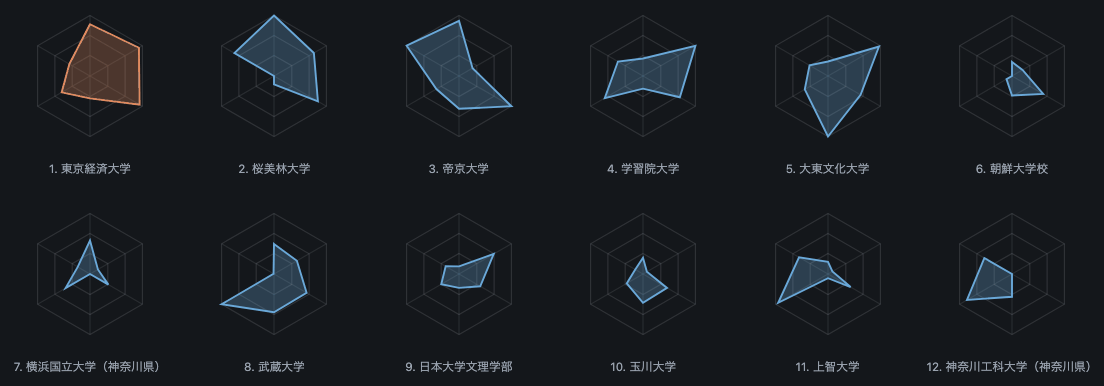
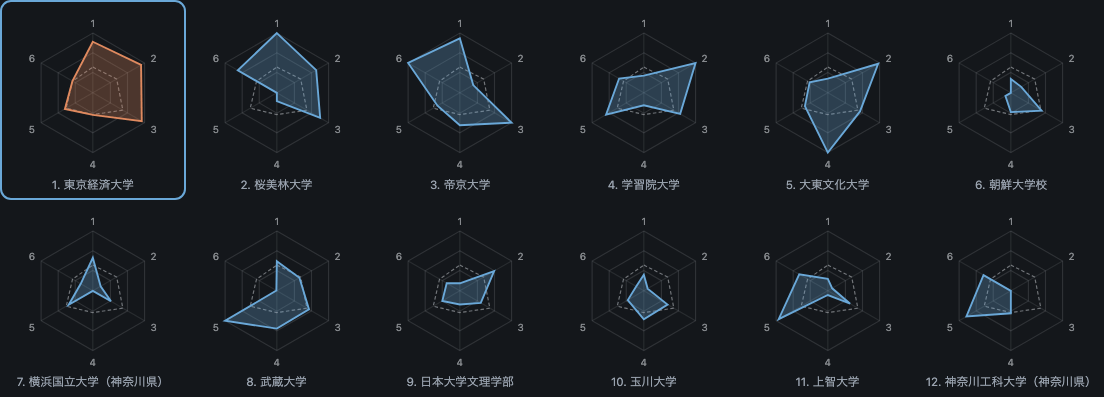
feat: number the fingerprint axes and draw the league mean
The small radars carried no axis labels, so a shape could not be read
without guessing which vertex was which. Each vertex now shows its index
number and the list under the grid is numbered to match; the labelled
radar gets a wider box so its six Japanese labels stop being clipped at
the viewBox edge.

Every radar also draws the league mean as a dashed outline, so a club
reads as a deviation from the field. Each axis is min-max scaled inside
the series, so that mean is not 50, and the list prints it per index.

fig-fingerprints.png re-shot and the season documents regenerated.

diff --git a/togakuren/dashboard.py b/togakuren/dashboard.py
@@ -49,7 +49,7 @@ svg { display:block; max-width:100%; height:auto; }
 #bubbles svg, #curve svg, #opponents svg, #grades svg,
 #goals-line svg, #shots-line svg, #conv-line svg, #trajectory svg, #moves svg
   { width:100%; max-width:640px; }
-#radar-big svg { width:100%; max-width:320px; }
+#radar-big svg { width:100%; max-width:440px; }
 .grid { display:grid; gap:1.4rem; grid-template-columns:repeat(auto-fit,minmax(290px,1fr)); }
 .cards { display:grid; gap:.7rem; grid-template-columns:repeat(auto-fit,minmax(118px,1fr)); margin:.8rem 0; }
 .card { background:var(--panel); border:1px solid var(--line); border-radius:6px; padding:.6rem .7rem; }
@@ -59,6 +59,8 @@ svg { display:block; max-width:100%; height:auto; }
 .radars figure { margin:0; text-align:center; }
 .radars figcaption { font-size:.73rem; color:var(--muted); margin-top:-.3rem; }
 .radars figure.on { outline:2px solid var(--accent); outline-offset:3px; border-radius:6px; }
+.axis-key { columns:2; column-gap:1.6rem; padding-left:1.4rem; margin:.5rem 0 0; }
+.axis-key li { margin:.1rem 0; break-inside:avoid; }
 .heat td { padding:0; border:none; }
 .heat .cell { width:19px; height:17px; border-radius:2px; }
 .heat th { font-size:.68rem; padding:.2rem .25rem; }
@@ -133,39 +135,52 @@ function bubbles(host, teams, selected) {
 }
 
 function radar(team, size, selected) {
-  const c = size / 2, radius = size * 0.34;
-  const node = svg(size, size, `${team.team} の個性`);
-  const points = AXES.map((axis, i) => {
-    const angle = -Math.PI / 2 + i * 2 * Math.PI / AXES.length;
-    const value = team.axes[axis.key] / 100;
-    return [c + radius * value * Math.cos(angle), c + radius * value * Math.sin(angle),
-            c + radius * Math.cos(angle), c + radius * Math.sin(angle), axis];
-  });
+  /* The labelled version needs room outside the circle for six Japanese
+     names, so it gets a wider box with the circle still centred in it. */
+  const big = size > 200;
+  const W = big ? Math.round(size * 1.45) : size;
+  const c = W / 2, cy = size / 2, radius = size * 0.34;
+  const node = svg(W, size, `${team.team} の個性`);
+  const angleOf = i => -Math.PI / 2 + i * 2 * Math.PI / AXES.length;
+  const ringPoints = ring => AXES.map((_, i) => {
+    const angle = angleOf(i);
+    return `${c + radius * ring * Math.cos(angle)},${cy + radius * ring * Math.sin(angle)}`;
+  }).join(" ");
+  const shape = values => AXES.map((axis, i) => {
+    const angle = angleOf(i), value = (values[axis.key] || 0) / 100;
+    return `${c + radius * value * Math.cos(angle)},${cy + radius * value * Math.sin(angle)}`;
+  }).join(" ");
   for (const ring of [.34, .67, 1]) {
-    node.appendChild(el("polygon", {
-      points: AXES.map((_, i) => {
-        const angle = -Math.PI / 2 + i * 2 * Math.PI / AXES.length;
-        return `${c + radius * ring * Math.cos(angle)},${c + radius * ring * Math.sin(angle)}`;
-      }).join(" "),
+    node.appendChild(el("polygon", { points: ringPoints(ring),
       fill: "none", stroke: "currentColor", "stroke-opacity": .13 }));
   }
-  for (const p of points) {
-    node.appendChild(el("line", { x1: c, y1: c, x2: p[2], y2: p[3],
+  AXES.forEach((_, i) => {
+    const angle = angleOf(i);
+    node.appendChild(el("line", { x1: c, y1: cy,
+      x2: c + radius * Math.cos(angle), y2: cy + radius * Math.sin(angle),
       stroke: "currentColor", "stroke-opacity": .1 }));
-  }
+  });
+  /* The league mean sits under every club, so a shape reads as a deviation
+     from the field rather than as an absolute score. */
+  node.appendChild(el("polygon", { points: shape(DATA.axis_means),
+    fill: "none", stroke: "currentColor", "stroke-opacity": .45,
+    "stroke-width": 1, "stroke-dasharray": "3 2" }));
   const on = team.team_pk === selected;
-  node.appendChild(el("polygon", { points: points.map(p => `${p[0]},${p[1]}`).join(" "),
+  node.appendChild(el("polygon", { points: shape(team.axes),
     fill: on ? "var(--warm)" : "var(--accent)", "fill-opacity": .28,
     stroke: on ? "var(--warm)" : "var(--accent)", "stroke-width": 1.6 }));
-  if (size > 200) {
-    points.forEach((p, i) => {
-      const angle = -Math.PI / 2 + i * 2 * Math.PI / AXES.length;
-      node.appendChild(el("text", {
-        x: c + (radius + 16) * Math.cos(angle), y: c + (radius + 16) * Math.sin(angle) + 4,
-        "font-size": 10.5, "text-anchor": "middle", fill: "currentColor", "fill-opacity": .7,
-      }, `${AXES[i].label} ${Math.round(team.axes[AXES[i].key])}`));
-    });
-  }
+  /* Numbers, not names: the small charts have no room for six Japanese
+     labels, and the number keys back to the list under the grid. */
+  AXES.forEach((axis, i) => {
+    const angle = angleOf(i), gap = big ? 10 : 9;
+    const dx = Math.cos(angle), anchor = big && Math.abs(dx) > .3
+      ? (dx > 0 ? "start" : "end") : "middle";
+    node.appendChild(el("text", {
+      x: c + (radius + gap) * dx, y: cy + (radius + gap) * Math.sin(angle) + 4,
+      "font-size": big ? 10.5 : 8.5, "text-anchor": anchor,
+      fill: "currentColor", "fill-opacity": big ? .7 : .55,
+    }, big ? `${i + 1}. ${axis.label} ${Math.round(team.axes[axis.key])}` : `${i + 1}`));
+  });
   return node;
 }
 
@@ -402,6 +417,12 @@ def build(conn, series_id, mode="full", salt=None, min_minutes=0):
     if not profile:
         raise ValueError(f"series {series_id!r} has no completed fixtures")
     prints = {row["team_pk"]: row["axes"] for row in analysis.fingerprints(conn, series_id, profile)}
+    # Each axis is min-max scaled within the series, so the mean is not 50: it
+    # says whether the field is bunched near the top or dragged down by a tail.
+    axis_means = {
+        key: round(sum(axes.get(key, 0.0) for axes in prints.values()) / len(prints), 1)
+        for key, _, _ in analysis.FINGERPRINT_AXES
+    } if prints else {key: 0.0 for key, _, _ in analysis.FINGERPRINT_AXES}
     names = dict(conn.execute("SELECT player_id, name FROM players"))
     per_player = metrics.player_season(conn, series_id, min_minutes=min_minutes, order_by="minutes")
     grades = {
@@ -480,6 +501,7 @@ def build(conn, series_id, mode="full", salt=None, min_minutes=0):
              "hint": analysis.FINGERPRINT_AXES_JA[key][1]}
             for key, _, _ in analysis.FINGERPRINT_AXES
         ],
+        "axis_means": axis_means,
         "teams": teams,
         "curve": analysis.points_curve(conn, series_id),
         "opponents": analysis.goals_by_opponent(conn, series_id, profile),
@@ -512,7 +534,8 @@ def build(conn, series_id, mode="full", salt=None, min_minutes=0):
     )
     axis_list = "".join(
         f"<li><b>{_e(analysis.FINGERPRINT_AXES_JA[key][0])}</b> — "
-        f"{_e(analysis.FINGERPRINT_AXES_JA[key][1])}</li>"
+        f"{_e(analysis.FINGERPRINT_AXES_JA[key][1])}"
+        f"（リーグ平均 {axis_means[key]:.0f}）</li>"
         for key, _, _ in analysis.FINGERPRINT_AXES
     )
     player_sections = (
@@ -559,8 +582,10 @@ def build(conn, series_id, mode="full", salt=None, min_minutes=0):
 
 <h3>チームの個性（6指標）</h3>
 <div class="radars" id="radars"></div>
-<p class="note">各指標はこのリーグ内での相対値（0〜100）。クリックでそのチームに切り替わる。</p>
-<ul class="note">{axis_list}</ul>
+<p class="note">各指標はこのリーグ内での相対値（0〜100）。頂点の番号は下のリストの番号に対応する。
+点線はリーグ平均で、平均が50から離れている指標は、上位に偏っているか下位に長い尾を引いている。
+クリックでそのチームに切り替わる。</p>
+<ol class="note axis-key">{axis_list}</ol>
 
 <h2 id="team-name"></h2>
 <div class="grid">

diff --git a/togakuren/markdown.py b/togakuren/markdown.py
@@ -29,8 +29,10 @@ LABELS = {
         "table": "League table",
         "fingerprints": "Fingerprints",
         "fingerprint_note": (
-            "Six indices, each scaled within this division. The chart is the same one the "
-            "dashboard draws; the numbers under each club repeat it in text."
+            "Six indices, each scaled within this division. The vertices are numbered 1-6 "
+            "clockwise from the top, in the order the indices are listed under each club "
+            "below, and the dashed outline is the division mean. The chart is the same one "
+            "the dashboard draws; the numbers under each club repeat it in text."
         ),
         "axes": "Indices",
         "grades": "By academic year",
@@ -128,8 +130,9 @@ LABELS = {
         "table": "順位表",
         "fingerprints": "チームの個性",
         "fingerprint_note": (
-            "6指標をこの部の中で相対化した値。図はダッシュボードと同じもので、"
-            "各クラブの節に同じ数値を文字でも載せている。"
+            "6指標をこの部の中で相対化した値。頂点の番号1〜6は上から時計回りで、"
+            "各クラブの節に並ぶ指標の順序と同じ。点線はこの部の平均。"
+            "図はダッシュボードと同じもので、各クラブの節に同じ数値を文字でも載せている。"
         ),
         "axes": "指標",
         "grades": "学年別",

diff --git a/FINDINGS.ja.md b/FINDINGS.ja.md
@@ -103,7 +103,9 @@
 
 ![チームの個性](docs/figures/fig-fingerprints.png)
 
-チームごとに6指標を、それぞれそのシーズン内で相対化しています。シュート数、決定率、守備、ターンオーバー（固定の11人から外へ広がった出場時間）、下級生比率（1・2年が占める出場時間の割合）、後半の比重（後半に打ったシュートの割合）。12枚並べると、チームの性格は表から読み取るものではなく、輪郭で見分けるものになります。
+チームごとに6指標を、それぞれそのシーズン内で相対化しています。シュート数、決定率、守備、ターンオーバー（固定の11人から外へ広がった出場時間）、下級生比率（1・2年が占める出場時間の割合）、後半の比重（後半に打ったシュートの割合）。頂点の番号1〜6はこの順で、上から時計回りに並んでいます。12枚並べると、チームの性格は表から読み取るものではなく、輪郭で見分けるものになります。
+
+各図の点線はリーグ平均です。どの指標もシーズン内で相対化しているため、この平均は50になりません。上位に固まっている指標では高く、1チームが長い尾を引いている指標では低くなります。
 
 2026年の各指標の両端は、6つの別々のクラブに散らばっています。
 

diff --git a/docs/seasons/2026-d3.md b/docs/seasons/2026-d3.md
@@ -2,7 +2,7 @@
 
 Every club in the division, from the federation's published match records. Aggregates only — no individual appears in this document; see [../DATA_POLICY.md](../DATA_POLICY.md).
 
-Snapshot of 2026 3部リーグ, generated 2026-08-29. Regenerate with `togakuren profiles --series "2026 3部リーグ"`.
+Snapshot of 2026 3部リーグ, generated 2026-09-03. Regenerate with `togakuren profiles --series "2026 3部リーグ"`.
 
 **Season in progress: 63 of 105 fixtures played.**
 
@@ -30,7 +30,7 @@ Snapshot of 2026 3部リーグ, generated 2026-08-29. Regenerate with `togakuren
 
 ![Fingerprints](../figures/fig-fingerprints.png)
 
-Six indices, each scaled within this division. The chart is the same one the dashboard draws; the numbers under each club repeat it in text.
+Six indices, each scaled within this division. The vertices are numbered 1-6 clockwise from the top, in the order the indices are listed under each club below, and the dashed outline is the division mean. The chart is the same one the dashboard draws; the numbers under each club repeat it in text.
 
 ### 1. 日本大学生物資源科学部
 

diff --git a/docs/seasons/2026-d1.md b/docs/seasons/2026-d1.md
@@ -2,7 +2,7 @@
 
 Every club in the division, from the federation's published match records. Aggregates only — no individual appears in this document; see [../DATA_POLICY.md](../DATA_POLICY.md).
 
-Snapshot of 2026 1部リーグ, generated 2026-08-29. Regenerate with `togakuren profiles --series "2026 1部リーグ"`.
+Snapshot of 2026 1部リーグ, generated 2026-09-03. Regenerate with `togakuren profiles --series "2026 1部リーグ"`.
 
 **Season in progress: 78 of 132 fixtures played.**
 
@@ -27,7 +27,7 @@ Snapshot of 2026 1部リーグ, generated 2026-08-29. Regenerate with `togakuren
 
 ![Fingerprints](../figures/fig-fingerprints.png)
 
-Six indices, each scaled within this division. The chart is the same one the dashboard draws; the numbers under each club repeat it in text.
+Six indices, each scaled within this division. The vertices are numbered 1-6 clockwise from the top, in the order the indices are listed under each club below, and the dashed outline is the division mean. The chart is the same one the dashboard draws; the numbers under each club repeat it in text.
 
 ### 1. 東京経済大学
 

diff --git a/docs/seasons/2026-d3.ja.md b/docs/seasons/2026-d3.ja.md
@@ -2,7 +2,7 @@
 
 連盟が公開している試合記録をもとにした、その部の全チーム。集計値のみで、個人は一切登場しない（[../DATA_POLICY.ja.md](../DATA_POLICY.ja.md)）。
 
-2026 3部リーグ 時点の集計。生成日 2026-08-29。再生成は `togakuren profiles --series "2026 3部リーグ"`。
+2026 3部リーグ 時点の集計。生成日 2026-09-03。再生成は `togakuren profiles --series "2026 3部リーグ"`。
 
 **シーズン進行中: 全105試合中63試合を消化。**
 
@@ -30,7 +30,7 @@
 
 ![チームの個性](../figures/fig-fingerprints.png)
 
-6指標をこの部の中で相対化した値。図はダッシュボードと同じもので、各クラブの節に同じ数値を文字でも載せている。
+6指標をこの部の中で相対化した値。頂点の番号1〜6は上から時計回りで、各クラブの節に並ぶ指標の順序と同じ。点線はこの部の平均。図はダッシュボードと同じもので、各クラブの節に同じ数値を文字でも載せている。
 
 ### 1. 日本大学生物資源科学部
 

diff --git a/docs/seasons/2026-d2.md b/docs/seasons/2026-d2.md
@@ -2,7 +2,7 @@
 
 Every club in the division, from the federation's published match records. Aggregates only — no individual appears in this document; see [../DATA_POLICY.md](../DATA_POLICY.md).
 
-Snapshot of 2026 2部リーグ, generated 2026-08-29. Regenerate with `togakuren profiles --series "2026 2部リーグ"`.
+Snapshot of 2026 2部リーグ, generated 2026-09-03. Regenerate with `togakuren profiles --series "2026 2部リーグ"`.
 
 **Season in progress: 60 of 90 fixtures played.**
 
@@ -25,7 +25,7 @@ Snapshot of 2026 2部リーグ, generated 2026-08-29. Regenerate with `togakuren
 
 ![Fingerprints](../figures/fig-fingerprints.png)
 
-Six indices, each scaled within this division. The chart is the same one the dashboard draws; the numbers under each club repeat it in text.
+Six indices, each scaled within this division. The vertices are numbered 1-6 clockwise from the top, in the order the indices are listed under each club below, and the dashed outline is the division mean. The chart is the same one the dashboard draws; the numbers under each club repeat it in text.
 
 ### 1. 東京大学
 

diff --git a/docs/seasons/2026-d1.ja.md b/docs/seasons/2026-d1.ja.md
@@ -2,7 +2,7 @@
 
 連盟が公開している試合記録をもとにした、その部の全チーム。集計値のみで、個人は一切登場しない（[../DATA_POLICY.ja.md](../DATA_POLICY.ja.md)）。
 
-2026 1部リーグ 時点の集計。生成日 2026-08-29。再生成は `togakuren profiles --series "2026 1部リーグ"`。
+2026 1部リーグ 時点の集計。生成日 2026-09-03。再生成は `togakuren profiles --series "2026 1部リーグ"`。
 
 **シーズン進行中: 全132試合中78試合を消化。**
 
@@ -27,7 +27,7 @@
 
 ![チームの個性](../figures/fig-fingerprints.png)
 
-6指標をこの部の中で相対化した値。図はダッシュボードと同じもので、各クラブの節に同じ数値を文字でも載せている。
+6指標をこの部の中で相対化した値。頂点の番号1〜6は上から時計回りで、各クラブの節に並ぶ指標の順序と同じ。点線はこの部の平均。図はダッシュボードと同じもので、各クラブの節に同じ数値を文字でも載せている。
 
 ### 1. 東京経済大学
 

diff --git a/docs/seasons/2026-d2.ja.md b/docs/seasons/2026-d2.ja.md
@@ -2,7 +2,7 @@
 
 連盟が公開している試合記録をもとにした、その部の全チーム。集計値のみで、個人は一切登場しない（[../DATA_POLICY.ja.md](../DATA_POLICY.ja.md)）。
 
-2026 2部リーグ 時点の集計。生成日 2026-08-29。再生成は `togakuren profiles --series "2026 2部リーグ"`。
+2026 2部リーグ 時点の集計。生成日 2026-09-03。再生成は `togakuren profiles --series "2026 2部リーグ"`。
 
 **シーズン進行中: 全90試合中60試合を消化。**
 
@@ -25,7 +25,7 @@
 
 ![チームの個性](../figures/fig-fingerprints.png)
 
-6指標をこの部の中で相対化した値。図はダッシュボードと同じもので、各クラブの節に同じ数値を文字でも載せている。
+6指標をこの部の中で相対化した値。頂点の番号1〜6は上から時計回りで、各クラブの節に並ぶ指標の順序と同じ。点線はこの部の平均。図はダッシュボードと同じもので、各クラブの節に同じ数値を文字でも載せている。
 
 ### 1. 東京大学
 

diff --git a/CHANGELOG.md b/CHANGELOG.md
@@ -44,6 +44,16 @@ Dates are the day the work landed on `main`.
 - FINDINGS drops the section on one club crossing three tiers in five years.
   The rise is a recruitment decision by the club, not something measured here,
   so it does not belong among the results.
+- **The dashboard's fingerprint radars are readable on their own.** The small
+  charts carried no axis labels at all, so a shape could not be read without
+  guessing which vertex was which; each vertex now shows the index number, and
+  the list under the grid is numbered to match. Every radar also draws the
+  league mean as a dashed outline, so a club reads as a deviation from the
+  field. Because each axis is min-max scaled inside the series, that mean is
+  not 50, and the list prints it per index.
+- `docs/figures/fig-fingerprints.png` re-shot for the numbered vertices and the
+  mean outline, 2026 1部リーグ as before. 1104 × 397, replacing 1104 × 386. The
+  season documents and FINDINGS say what the numbers and the dashed outline are.
 
 ### Added
 

diff --git a/FINDINGS.md b/FINDINGS.md
@@ -167,8 +167,13 @@ the top half and finish at 0.204.
 Six indices per team, each scaled within the season: shot volume, finishing,
 defence, rotation (minutes spread beyond a settled eleven), youth (share of
 minutes played by first and second years) and late push (share of shots in the
-second half). Twelve small radars make squad character something you recognise by
-outline rather than read off a table.
+second half). The vertices are numbered in that order, clockwise from the top.
+Twelve small radars make squad character something you recognise by outline
+rather than read off a table.
+
+The dashed outline on each radar is the league mean. Because every axis is
+scaled inside the season, that mean is not 50: it sits high on an axis where the
+field is bunched near the top and low where one club is dragging a long tail.
 
 The extremes of each axis in 2026 belong to six different clubs:
 

diff --git a/docs/seasons/2022-d1.md b/docs/seasons/2022-d1.md
@@ -25,7 +25,7 @@ Every club in the division, from the federation's published match records. Aggre
 
 ![Fingerprints](../figures/fig-fingerprints.png)
 
-Six indices, each scaled within this division. The chart is the same one the dashboard draws; the numbers under each club repeat it in text.
+Six indices, each scaled within this division. The vertices are numbered 1-6 clockwise from the top, in the order the indices are listed under each club below, and the dashed outline is the division mean. The chart is the same one the dashboard draws; the numbers under each club repeat it in text.
 
 ### 1. 山梨学院大学
 
